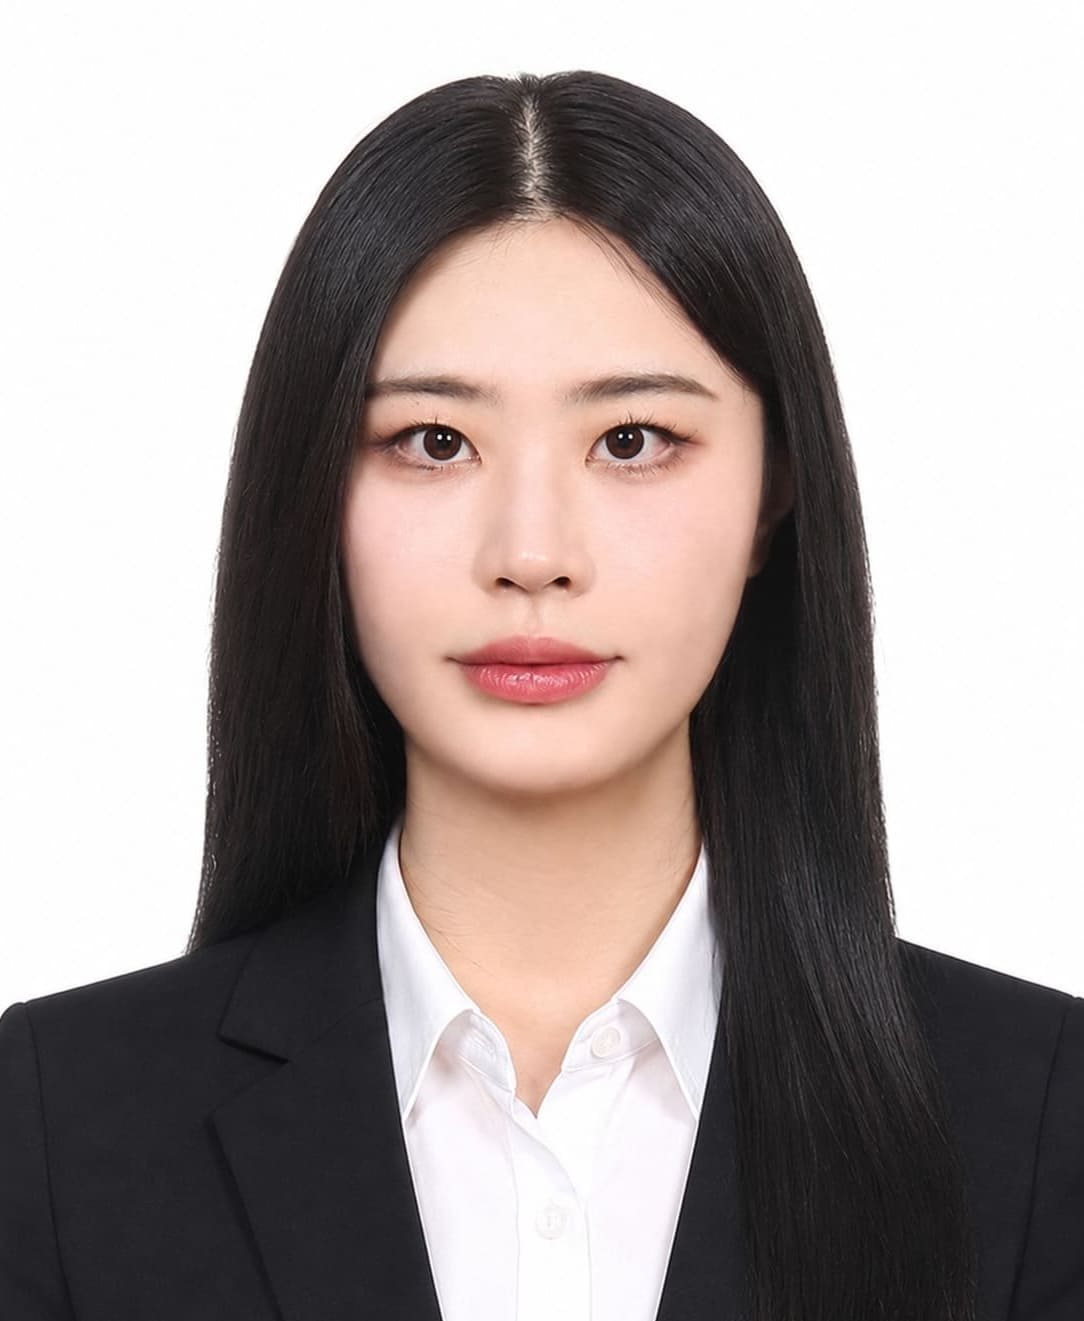
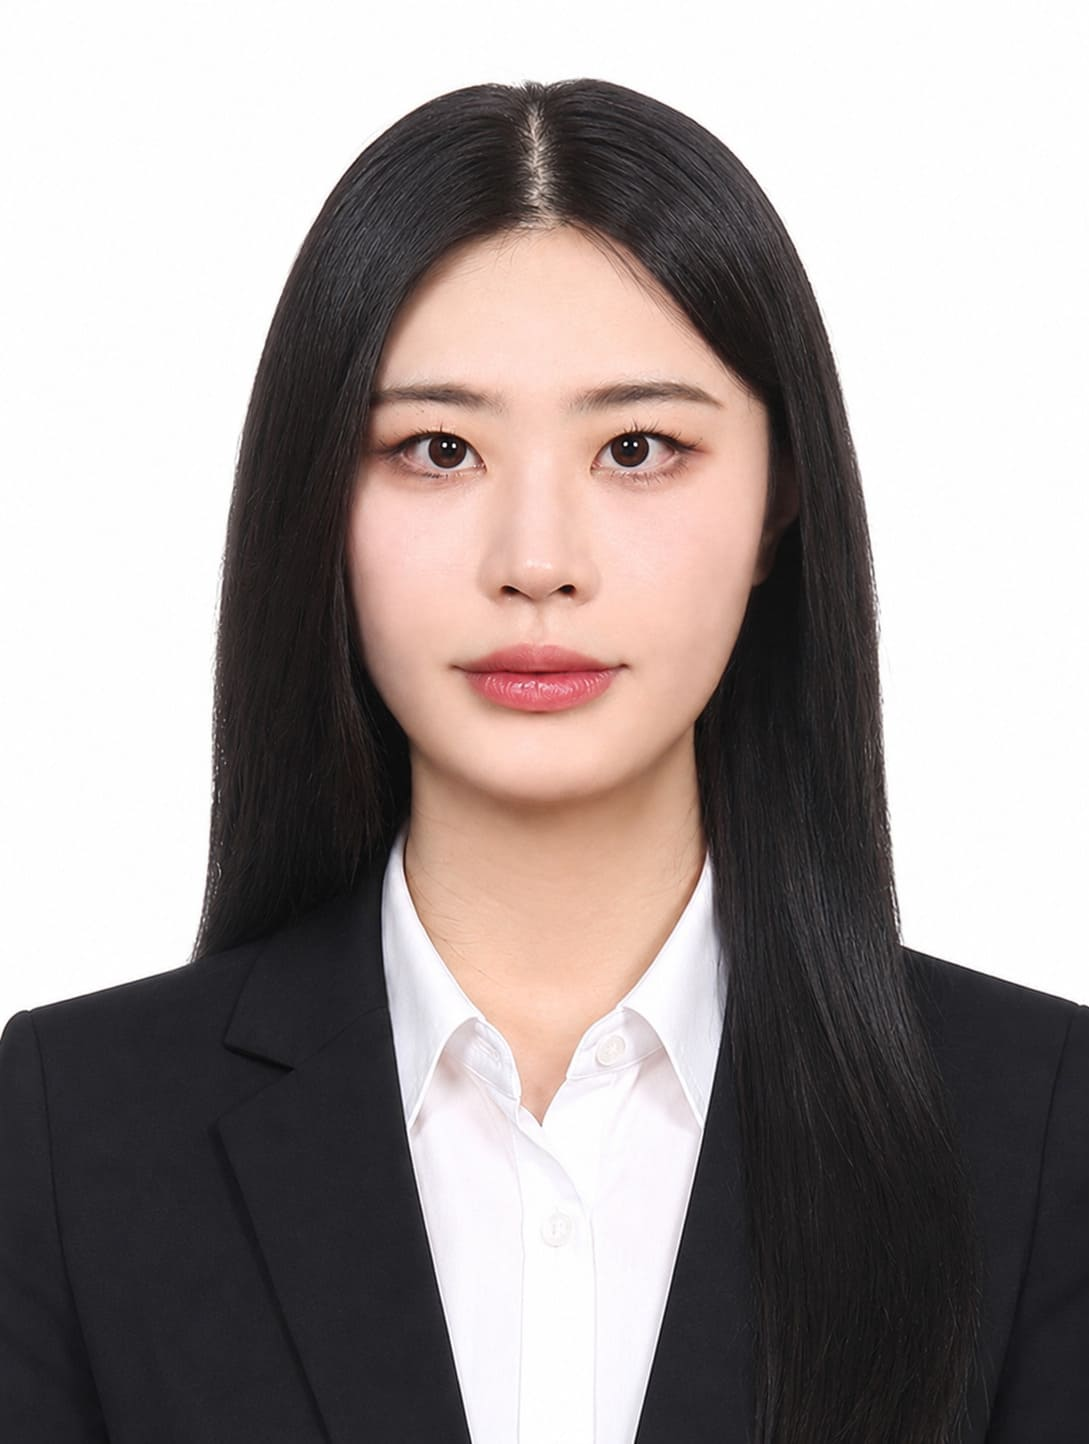
주소 수정

diff --git a/index.html b/index.html
@@ -684,6 +684,12 @@
       const params = new URLSearchParams(window.location.search);
       const version = params.get("v") || "ent";
 
+      const logoLink = document.querySelector(".logo a");
+
+      if (version === "kids") {
+        logoLink.href = "../../index.html?v=kids";
+      }
+
       const aboutData = {
         ent: `
     무대 위 빛나는 순간들을 바라보며, 이제는 그 장면을 직접 만들어내는 사람이 되고자 합니다.
